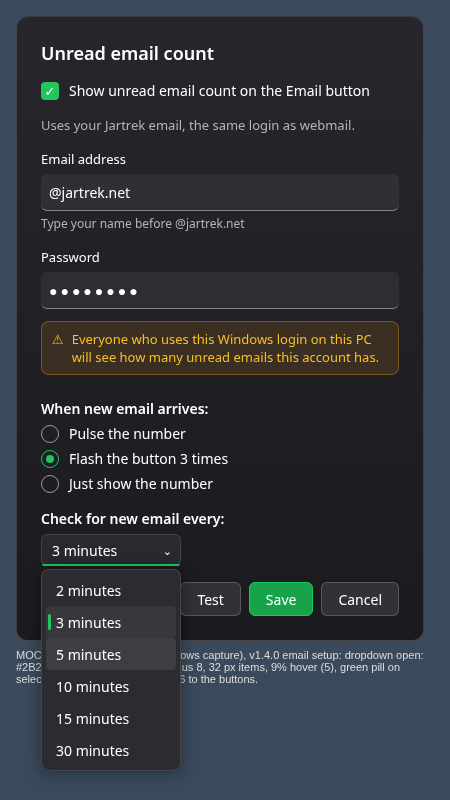
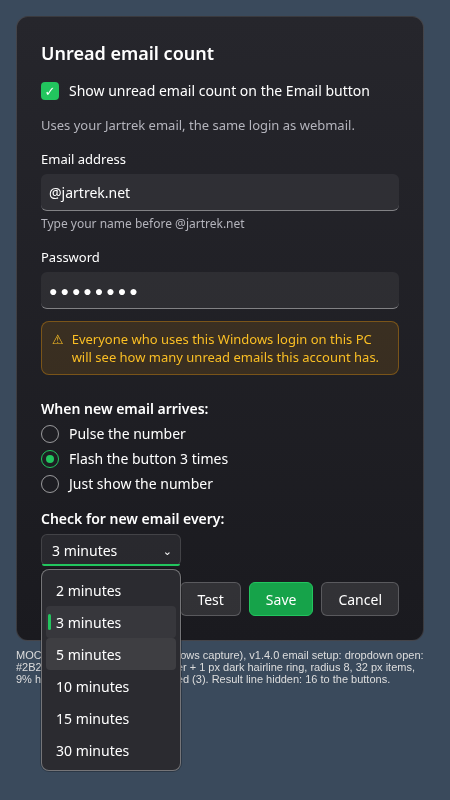
v1.4.0 Kern recheck: D2Combo popup edge #59FFFFFF + 1 px #40000000 hairline ring (margin -1, radius 9) instead of the offset block; open mockups

Changed region(s): [[0.4044, 0.8125, 0.9022, 0.875], [0.0311, 0.8125, 0.0933, 0.875]]

diff --git a/reviews/v1.4.0/email-setup/email-setup-open.html b/reviews/v1.4.0/email-setup/email-setup-open.html
@@ -10,7 +10,7 @@ h1{font-size:18px;font-weight:600;margin:0 0 16px}.lbl{font-size:13px;color:#fff
 .warn{border-radius:8px;background:rgba(245,158,11,.12);border:1px solid rgba(245,158,11,.35);padding:8px 10px;color:#FBBF24;font-size:13px;margin:8px 0 24px;display:flex;gap:8px}
 h2{font-size:14px;font-weight:600;margin:0 0 6px}.r{display:flex;align-items:center;gap:10px;font-size:14px;margin:6px 0}
 .o{width:16px;height:16px;border-radius:50%;border:1.5px solid rgba(255,255,255,.55);display:flex;align-items:center;justify-content:center}.o.on{border-color:#22C55E}.o.on i{width:8px;height:8px;border-radius:50%;background:#22C55E}
-.combo{position:relative;width:140px;height:32px;box-sizing:border-box;border-radius:6px;background:rgba(255,255,255,.06);border:1px solid rgba(255,255,255,.12);display:flex;align-items:center;justify-content:space-between;padding:0 8px 0 10px;font-size:14px;margin-top:6px}.combo:after{content:'';position:absolute;left:0;right:0;bottom:-1px;height:1px;background:rgba(255,255,255,.4);border-radius:0 0 6px 6px}.combo.focus:after{height:2px;background:#22C55E}.chev{color:#B4B4BC;font-size:11px}.combo.focus .chev{color:#fff}.pop{position:absolute;left:-1px;top:34px;width:140px;box-sizing:border-box;background:#2B2B30;border:1px solid rgba(255,255,255,.12);border-radius:8px;padding:4px;box-shadow:0 2px 16px rgba(0,0,0,.4);z-index:3}.it{position:relative;height:32px;border-radius:4px;padding:0 10px;display:flex;align-items:center;font-size:14px}.it.sel{background:rgba(255,255,255,.06)}.it.sel:before{content:'';position:absolute;left:2px;width:3px;height:16px;border-radius:1.5px;background:#22C55E}.it.hov{background:rgba(255,255,255,.09)}.hint{color:#B4B4BC;font-size:12px;margin:-8px 0 16px}.ph{color:#9A9AA4}
+.combo{position:relative;width:140px;height:32px;box-sizing:border-box;border-radius:6px;background:rgba(255,255,255,.06);border:1px solid rgba(255,255,255,.12);display:flex;align-items:center;justify-content:space-between;padding:0 8px 0 10px;font-size:14px;margin-top:6px}.combo:after{content:'';position:absolute;left:0;right:0;bottom:-1px;height:1px;background:rgba(255,255,255,.4);border-radius:0 0 6px 6px}.combo.focus:after{height:2px;background:#22C55E}.chev{color:#B4B4BC;font-size:11px}.combo.focus .chev{color:#fff}.pop{position:absolute;left:-1px;top:34px;width:140px;box-sizing:border-box;background:#2B2B30;border:1px solid rgba(255,255,255,.35);border-radius:8px;padding:4px;box-shadow:0 0 0 1px rgba(0,0,0,.25);z-index:3}.it{position:relative;height:32px;border-radius:4px;padding:0 10px;display:flex;align-items:center;font-size:14px}.it.sel{background:rgba(255,255,255,.06)}.it.sel:before{content:'';position:absolute;left:2px;width:3px;height:16px;border-radius:1.5px;background:#22C55E}.it.hov{background:rgba(255,255,255,.09)}.hint{color:#B4B4BC;font-size:12px;margin:-8px 0 16px}.ph{color:#9A9AA4}
 .res{margin:16px 0 8px;font-size:13px;color:#4ADE80;display:flex;gap:8px}
 .row{display:flex;justify-content:flex-end;gap:8px}.b{height:32px;padding:0 16px;border-radius:6px;font-size:14px;display:flex;align-items:center;background:rgba(255,255,255,.1);border:1px solid rgba(255,255,255,.2)}.b.g{background:#16A34A;border-color:#22C55E}
 .note{color:#ddd;font:11px sans-serif;margin-top:8px;width:408px}
@@ -33,5 +33,5 @@ h2{font-size:14px;font-weight:600;margin:0 0 6px}.r{display:flex;align-items:cen
 
 <div class=row style="margin-top:16px"><div class=b>Test</div><div class="b g">Save</div><div class=b>Cancel</div></div>
 </div>
-<div class=note>MOCKUP (box HTML, not a Windows capture), v1.4.0 email setup: dropdown open: #2B2B30 popup, 12% border, radius 8, 32 px items, 9% hover (5), green pill on selected (3). Result line hidden: 16 to the buttons.</div>
+<div class=note>MOCKUP (box HTML, not a Windows capture), v1.4.0 email setup: dropdown open: #2B2B30 popup, 35% white border + 1 px dark hairline ring, radius 8, 32 px items, 9% hover (5), green pill on selected (3). Result line hidden: 16 to the buttons.</div>
 </body></html>
